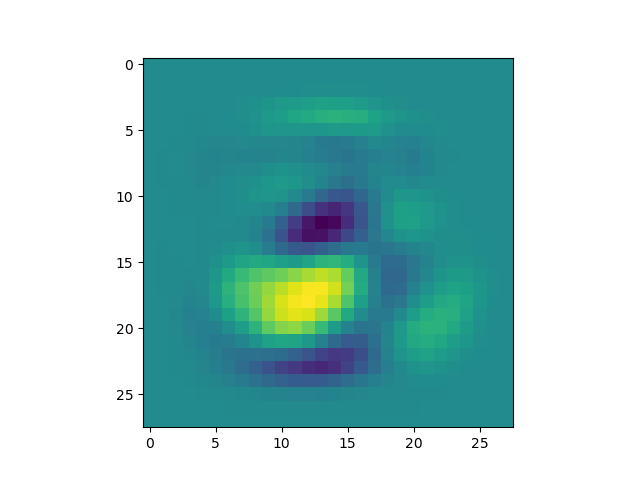
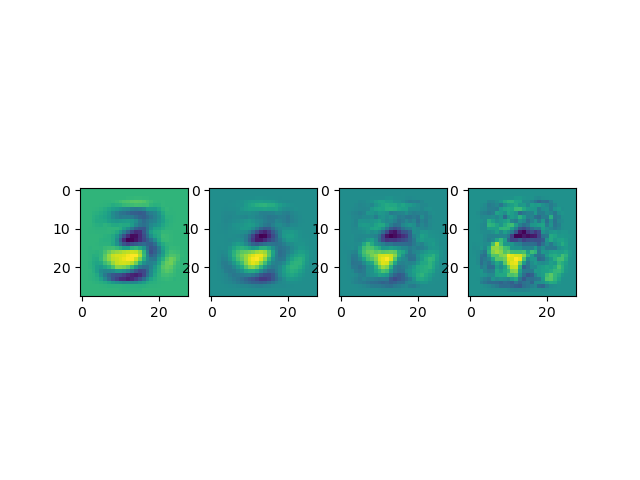
Functioning task 3) implemented for loop to loop through all lamdas and plot

diff --git a/assignment1/task2.py b/assignment1/task2.py
@@ -77,7 +77,7 @@ def train(
                 if(_val_loss[0,0]>last_loss and already_failed>5):
                     # Stop early
                     print("Early stopping kicked in at epoch nr.:",epoch+1)
-                    return model, train_loss, val_loss, train_accuracy, val_accuracy
+                    #return model, train_loss, val_loss, train_accuracy, val_accuracy
                 elif(_val_loss[0,0]>last_loss): # Means failed this round but not consistently
                     already_failed += 1
                 else: 
@@ -100,7 +100,7 @@ X_test  = pre_process_images(X_test)
 X_val   = pre_process_images(X_val)
 
 # hyperparameters
-num_epochs = 500
+num_epochs = 50
 learning_rate = 0.2
 batch_size = 128
 l2_reg_lambda = 0  # [0 1.0, 0.1, 0.01, 0.001]
@@ -141,10 +141,45 @@ plt.legend()
 plt.savefig("binary_train_accuracy.png")
 plt.show()
 
-# Plot the length of the weight vector (L2-norm) for each lamda
-print("L2-norm(w):",np.linalg.norm(model.w))
 
-# Reshape weights to image 2 d)
-plt.imshow(np.reshape(np.array(model.w[0:28**2]),(28,28)))
-plt.savefig("weight.png")
+
+# Loop through different lamda values
+lamda = [1.0, 0.1, 0.01, 0.001]
+len_w = [0,0,0,0]
+for i in range(4):
+    l2_reg_lambda = lamda[i]  
+    model, train_loss, val_loss, train_accuracy, val_accuracy = train(
+        num_epochs=num_epochs,
+        learning_rate=learning_rate,
+        batch_size=batch_size,
+        l2_reg_lambda=l2_reg_lambda)
+
+    print("Validation accuracy:", calculate_accuracy(X_val, Y_val, model))
+    
+    plt.figure(10)
+    utils.plot_loss(val_accuracy, "Validation Accuracy")
+
+    # Plot the length of the weight vector (L2-norm) for each lamda
+    len_w[i] = np.linalg.norm(model.w)
+
+    # Reshape weights to image 2 d)
+    plt.figure(12)
+    plt.subplot(1,4,i+1)
+    plt.imshow(np.reshape(np.array(model.w[0:28**2]),(28,28)))
+
+plt.figure(10)    
+plt.ylim([0.93, .99])
+plt.legend(lamda)
+plt.savefig("validatation_accuracy_different_lamdas.png")
+plt.show()
+
+plt.figure(11)
+plt.plot(lamda,len_w)
+plt.xlabel('lamda')
+plt.ylabel('Length of weight vector')
+plt.savefig("L2_norm_vs_lamda.png")
+plt.show()
+
+plt.figure(12)
+plt.savefig('weight.png')
 plt.show()
